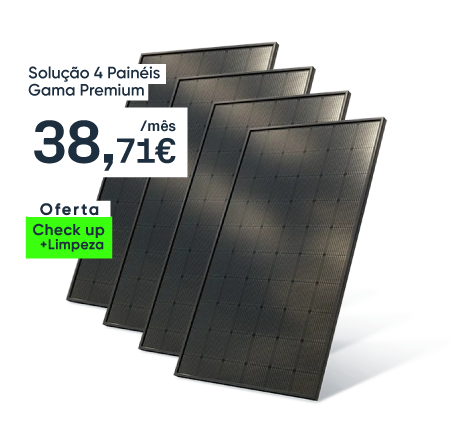
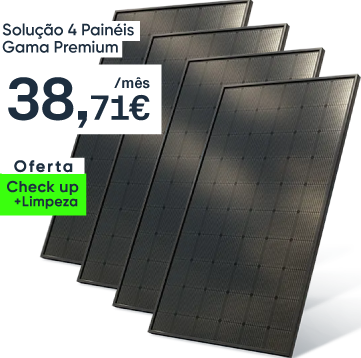
`Updated images and layout in HeaderEnergia, CreditoPage, and EnergiaPage components`

diff --git a/src/pages/EnergiaPage.tsx b/src/pages/EnergiaPage.tsx
@@ -225,14 +225,13 @@ const EnergiaPage: React.FC = () => {
         </section>
       </AnimatedSection>
 
-      {/* 4. Solar Panel Installation Section */}
       <AnimatedSection>
         <section className="py-12 sm:py-20 bg-white">
           <div className="max-w-7xl mx-auto px-4 sm:px-6 lg:px-8">
             <div className="grid grid-cols-1 lg:grid-cols-2 gap-8 sm:gap-12 items-start lg:items-center">
               
               {/* Left side - Content */}
-              <div>
+              <div className="lg:px-10"> {/* Ajuste de padding à esquerda */}
                 <h2 className="text-2xl sm:text-3xl md:text-4xl font-bold text-gray-900 mb-4 sm:mb-6">
                   Instalação de Painéis Solares
                 </h2>
@@ -240,19 +239,18 @@ const EnergiaPage: React.FC = () => {
                   Produza a sua própria energia limpa e sustentável com os nossos sistemas solares fotovoltaicos.
                 </p>
 
-                {/* Image (Only on mobile, placed between the title and the topics) */}
-                <div className="lg:hidden relative ml-10 mb-6">
+                {/* Imagem (Only on mobile, placed between the title and the topics) */}
+                <div className="lg:hidden relative lg:ml-2 mb-6">
                   <img
                     src="/PAINEIS-QUALITY_002.png"
                     alt="Solução 4 Painéis - Gama Premium - 38,71€/mês"
-                    className="w-full max-w-md rounded-lg "
+                    className="w-full max-w-md rounded-lg"
                   />
                   <img
                     src="/PAINEIS-PREMIUM_002.png"
                     alt="Solução 2 Painéis - Gama Quality - 23,90€/mês"
-                    className="w-full max-w-md rounded-lg "
+                    className="w-full max-w-md rounded-lg"
                   />
-                  
                 </div>
 
                 {/* Benefits List */}
@@ -300,7 +298,10 @@ const EnergiaPage: React.FC = () => {
 
                 {/* Button */}
                 <div className="flex justify-center">
-                  <button className="bg-[#0d2233] text-white px-6 sm:px-8 py-3 sm:py-4 rounded-lg hover:bg-[#79b2e9] transition-colors duration-300 font-medium inline-flex items-center text-sm sm:text-base">
+                  <button 
+                    onClick={() => document.getElementById('contact-form')?.scrollIntoView({ behavior: 'smooth' })}
+                    className="bg-[#0d2233] text-white px-6 sm:px-8 py-3 sm:py-4 rounded-lg hover:bg-[#79b2e9] transition-colors duration-300 font-medium inline-flex items-center text-sm sm:text-base"
+                  >
                     <Sun className="mr-2 sm:mr-3 h-4 w-4 sm:h-5 sm:w-5" />
                     Pedir Orçamento Gratuito
                   </button>
@@ -308,17 +309,17 @@ const EnergiaPage: React.FC = () => {
               </div>
 
               {/* Right side - Image (Desktop only) */}
-              <div className="hidden lg:block mt-8 lg:mt-0 lg:ml-8">
+              <div className="hidden lg:block mt-8 lg:mt-0 lg:ml-10">
                 <div className="space-y-4">
                   <img
                     src="/PAINEIS-QUALITY_002.png"
                     alt="Solução 4 Painéis - Gama Premium - 38,71€/mês"
-                    className="w-full max-w-md rounded-lg "
+                    className="w-300 max-w-md rounded-lg"
                   />
                   <img
                     src="/PAINEIS-PREMIUM_002.png"
                     alt="Solução 2 Painéis - Gama Quality - 23,90€/mês"
-                    className="w-full max-w-md rounded-lg "
+                    className="w-300 max-w-md rounded-lg"
                   />
                 </div>
               </div>
@@ -326,6 +327,7 @@ const EnergiaPage: React.FC = () => {
           </div>
         </section>
       </AnimatedSection>
+
 
 
       {/* 6. Contract Analysis Section */}
@@ -424,7 +426,7 @@ const EnergiaPage: React.FC = () => {
       </AnimatedSection>
 
       {/* 8. Contact Form Section */}
-      <section className="py-12 sm:py-20 bg-gray-900 text-white">
+      <section id="contact-form" className="py-12 sm:py-20 bg-gray-900 text-white">
         <div className="max-w-4xl mx-auto px-4 sm:px-6 lg:px-8">
           <div className="flex flex-col items-center">
             <div className="text-center mb-6 sm:mb-8 max-w-3xl">

diff --git a/src/pages/CreditoPage.tsx b/src/pages/CreditoPage.tsx
@@ -89,10 +89,12 @@ const CreditoPage: React.FC = () => {
         {/* Overlay for better text readability */}
         <div className="absolute inset-0 bg-black opacity-30"></div>
 
-        {/* Text in the top-right corner */}
-        <div className="absolute mt-3 right-6 text-xs font-semibold z-20">
+
+        <div className="absolute mt-3 right-6 text-xs font-semibold z-20 bg-white px-3 py-1 rounded-lg text-black">
           Intermediário de crédito N.º 0007977
         </div>
+
+
 
         <div className="max-w-7xl mx-auto sm:px-6 lg:px-8">
           <div className="text-center relative z-10">
@@ -214,23 +216,8 @@ const CreditoPage: React.FC = () => {
             </div>
           </div>
 
-          {/* Call to Action */}
-          <div className="text-center hidden sm:block mt-12">
-            <div className="bg-white p-8 rounded-2xl shadow-lg border border-gray-100 max-w-2xl mx-auto">
-              <h3 className="text-2xl font-bold text-gray-900 mb-4">
-                Pronto para otimizar o seu orçamento familiar?
-              </h3>
-              <p className="text-gray-600 mb-6">
-                Contacte-nos hoje mesmo para uma consulta gratuita e descubra como podemos ajudá-lo a conseguir as melhores condições de crédito habitação.
-              </p>
-              <a 
-                href="#contact-form"
-                className="inline-block scroll-behavior:smooth bg-[#0d2233] text-white font-semibold py-3 px-8 rounded-lg hover:bg-[#79b2e9] transition-colors duration-300"
-              >
-                Falar com um especialista
-              </a>
-            </div>
-          </div>
+          
+          
         </div>
       </section>
 
@@ -311,6 +298,10 @@ const CreditoPage: React.FC = () => {
 
           <div>
             <FAQ category="credito" />
+          </div>
+
+          <div className="bg-gray-900 shadow-sm text-gray-500 text-xs py-12 text-justify">
+              No exercício da sua atividade, a Globalead Portugal estabeleceu uma parceria estratégica com a SEGUP – Corretores de Seguros, S.A., com o objetivo de reforçar a qualidade, a abrangência e a proximidade dos serviços prestados aos seus clientes. Esta colaboração alia a experiência da Globalead na gestão integrada de soluções personalizadas à competência técnica e ao sólido percurso da SEGUP no setor da mediação de seguros. Em conjunto, disponibilizamos um portefólio completo de soluções nos ramos Vida e Não Vida, com acesso às principais seguradoras do mercado. Através desta parceria, garantimos condições competitivas, acompanhamento especializado e um serviço de excelência, focado nas reais necessidades dos nossos clientes. Importa referir que a SEGUP – Corretores de Seguros, S.A., sociedade anónima com o número de pessoa coletiva 510670300, matriculada na Conservatória do Registo Comercial de Braga, encontra-se inscrita, desde 05/03/2024, na ASF – Autoridade de Supervisão de Seguros e Fundos de Pensões, como corretor de seguros, sob o n.º 624584421, com autorização para o exercício da atividade de mediação de seguros nos ramos Vida e Não Vida. O seu registo pode ser consultado em www.asf.com.pt, nos termos do artigo 32.º do Decreto-Lei n.º 144/2006, de 31 de julho.
           </div>
         </div>
       </section>

diff --git a/src/components/HeaderEnergia.tsx b/src/components/HeaderEnergia.tsx
@@ -1,4 +1,3 @@
-
 import React from 'react';
 import { Zap, Flame, Check, FileText, ChevronRight } from 'lucide-react';
 import { useNavigate } from 'react-router-dom';
@@ -30,15 +29,15 @@ const HeaderEnergia: React.FC<HeaderProps> = ({ formData, handleInputChange }) =
       <div className="absolute inset-0 bg-black/5 z-10"></div>
 
       {/* Businessman image with contrast effect */}
-      <div className="absolute inset-0 flex items-center justify-center z-15">
+      <div className="absolute bottom-0 left-0 right-0 flex items-end justify-center z-20">
         {/* Contrast background effect */}
         <div className="absolute w-80 h-80 bg-blue-200/30 rounded-full blur-3xl"></div>
         
         {/* Businessman image - Hidden on mobile */}
         <img
-          src="/fotos/aaaaaa.png"
+          src="/carlos/pe-fato-meio-sorrir2.jpg"
           alt="Professional businessman"
-          className="relative w-96 h-auto object-contain drop-shadow-2xl z-10 hidden lg:block" // This will hide the image on mobile (below lg breakpoint)
+          className="relative w-96 h-auto object-contain drop-shadow-2xl z-10 hidden lg:block"
         />
       </div>
 
